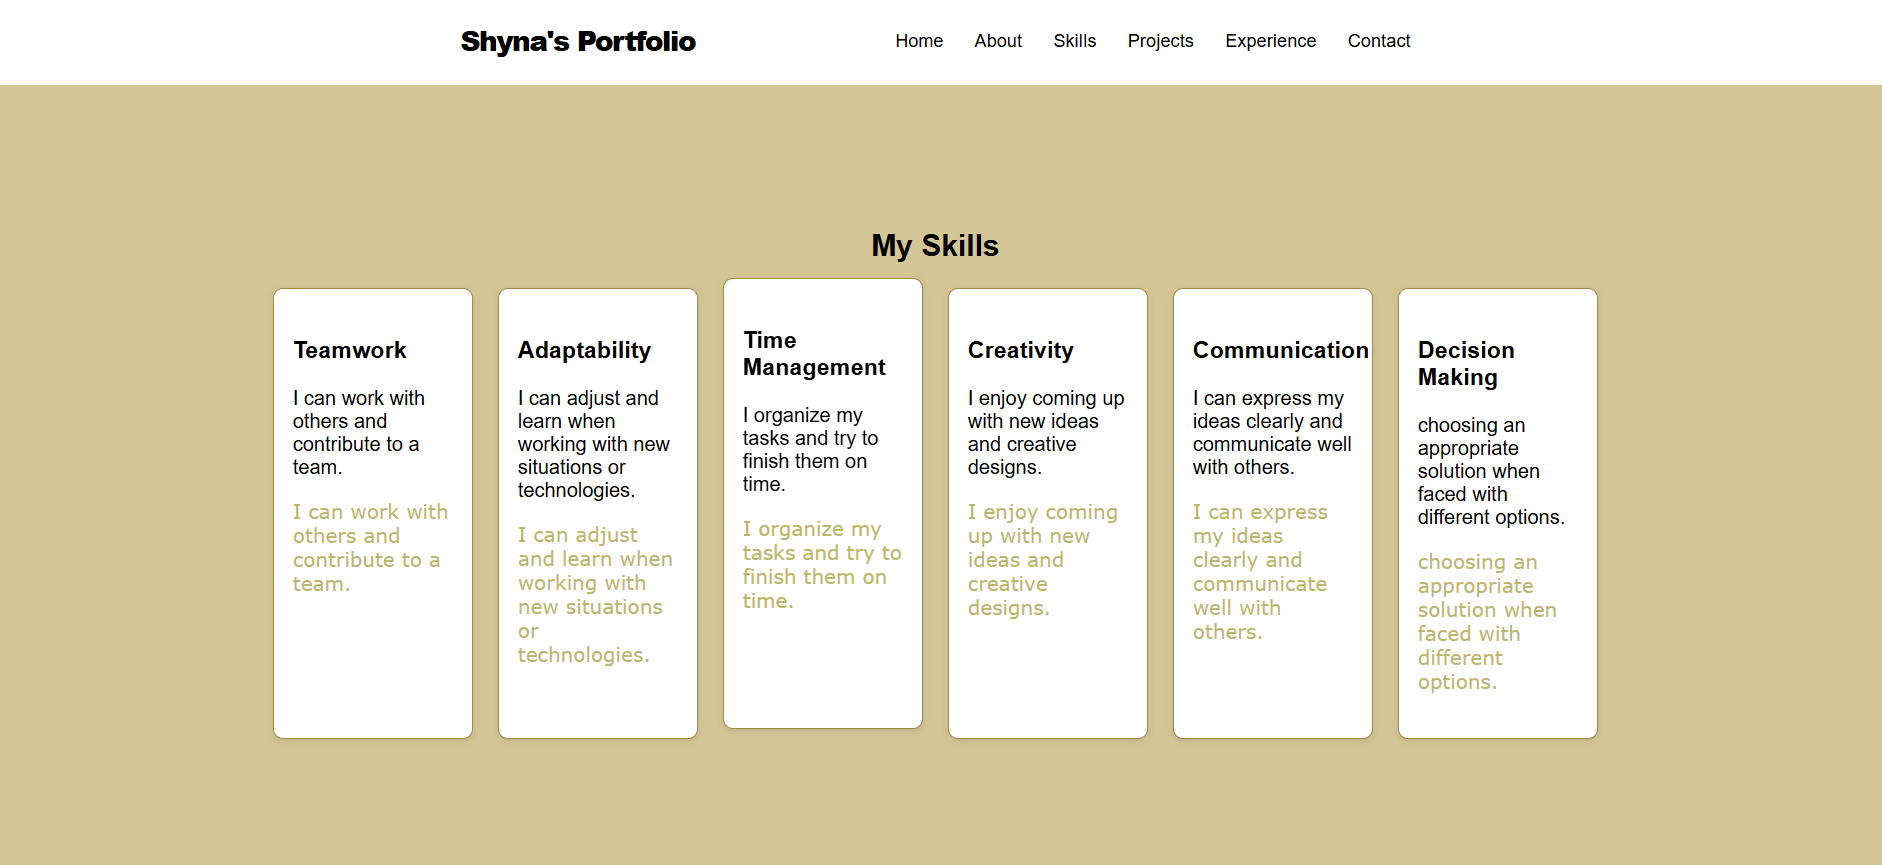
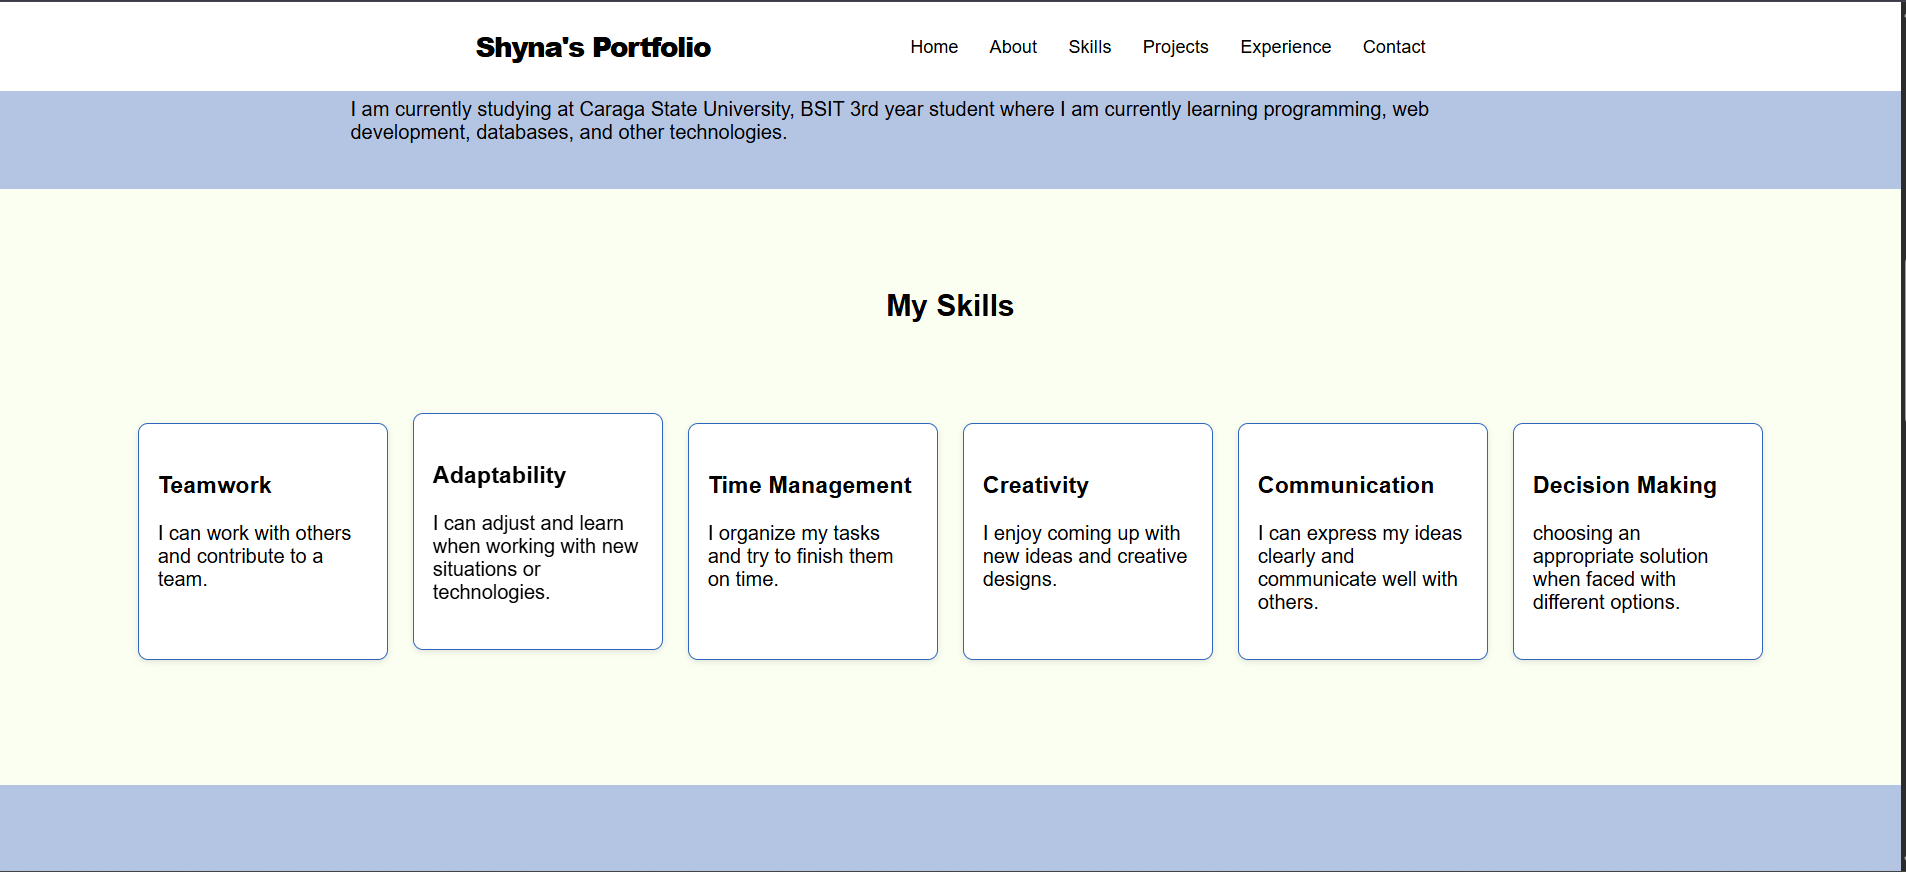
Complete static portfolio

diff --git a/index.html b/index.html
@@ -30,29 +30,31 @@
         <a href="#aboutme" class="button">Learn More About Me</a>
       </div>
       <!-- Act 2-->
-      <section id="aboutme">
-        <h2>About Me</h2>
-        <p>
-          I am a third year college student taking up BSIT who enjoys web
-          designing.
-        </p>
-        <h3>My Hobbies and Interests</h3>
-        <ul>
-          <li>I love watching movies</li>
-          <li>Playing video games</li>
-          <li>Getting my nails done :></li>
-        </ul>
-        <h3>My Goals</h3>
-        <p>
-          My goal is to improve and become a successful web designer in the
-          future.
-        </p>
-        <h3>My Background</h3>
-        <p>
-          I am currently studying at Caraga State University, BSIT 3rd year
-          student where I am currently learning programming, web development,
-          databases, and other technologies.
-        </p>
+      <section id="aboutmesection">
+        <div id="aboutme">
+            <h2>About Me</h2>
+          <p>
+            I am a third year college student taking up BSIT who enjoys web
+            designing.
+          </p>
+          <h3>My Hobbies and Interests</h3>
+          <ul>
+            <li>I love watching movies</li>
+            <li>Playing video games</li>
+            <li>Getting my nails done :></li>
+          </ul>
+          <h3>My Goals</h3>
+          <p>
+            My goal is to improve and become a successful web designer in the
+            future.
+          </p>
+          <h3>My Background</h3>
+          <p>
+            I am currently studying at Caraga State University, BSIT 3rd year
+            student where I am currently learning programming, web development,
+            databases, and other technologies.
+          </p>
+        </div>
       </section>
         <!-- Act 3-->
       <section id="skills">
@@ -61,9 +63,6 @@
           <div class="skill-card">
             <h3>Teamwork</h3>
             <p>I can work with others and contribute to a team.</p>
-            <p class="card-font">
-              I can work with others and contribute to a team.
-            </p>
           </div>
 
           <div class="skill-card">
@@ -72,26 +71,16 @@
               I can adjust and learn when working with new situations or
               technologies.
             </p>
-            <p class="card-font">
-              I can adjust and learn when working with new situations or
-              technologies.
-            </p>
           </div>
 
           <div class="skill-card">
             <h3>Time Management</h3>
             <p>I organize my tasks and try to finish them on time.</p>
-            <p class="card-font">
-              I organize my tasks and try to finish them on time.
-            </p>
           </div>
 
           <div class="skill-card">
             <h3>Creativity</h3>
             <p>I enjoy coming up with new ideas and creative designs.</p>
-            <p class="card-font">
-              I enjoy coming up with new ideas and creative designs.
-            </p>
           </div>
 
           <div class="skill-card">
@@ -99,18 +88,11 @@
             <p>
               I can express my ideas clearly and communicate well with others.
             </p>
-            <p class="card-font">
-              I can express my ideas clearly and communicate well with others.
-            </p>
           </div>
 
           <div class="skill-card">
             <h3>Decision Making</h3>
             <p>
-              choosing an appropriate solution when faced with different
-              options.
-            </p>
-            <p class="card-font">
               choosing an appropriate solution when faced with different
               options.
             </p>
@@ -260,5 +242,9 @@
       </div>
     </section>
     </main>
+    <footer class="footer">
+  <p>&copy; 2026 Shyna's Portfolio. All rights reserved.</p>
+  <p>Designed and developed by Shyna Thea Macarayan</p>
+</footer>
   </body>
 </html>

diff --git a/css/style.css b/css/style.css
@@ -1,6 +1,6 @@
 body {
   font-family: Arial, sans-serif;
-  background-color: rgb(212 197 150);
+  background-color: #FBFFF1;
 
   /* Centers the website horizontally */
  
@@ -12,6 +12,11 @@ body {
   margin: 0 auto;
   text-align: center;
   padding-top: 100px;
+}
+.container h3{
+  color: #3c3c3c;
+  letter-spacing: 2px;
+  margin-bottom: 50px;
 }
 .myself {
   width: 120px;
@@ -25,7 +30,7 @@ body {
   margin-top: 20px;
   padding: 10px 18px;
 
-  background-color: #222;
+  background-color: #3C3744;
   color: white;
   border-radius: 5px;
   transition: transform 0.2s ease;
@@ -38,8 +43,12 @@ body {
 html {
   scroll-behavior: smooth;
 }
+#aboutmesection{
+   background-color: #B4C5E4;
+}
 #aboutme {
   width: 95%;
+  max-width: 1000px;
   margin: 150px auto 0;
   padding: 20px;
   box-sizing: border-box;
@@ -63,14 +72,15 @@ main {
   flex-wrap: wrap;
   justify-content: center;
   gap: 20px;
-  margin-top: 20px;
+  margin-top: 80px;
+  margin-bottom: 80px;
 }
 .skill-card {
   background-color: #fff;
-  border: 1px solid #978e47;
+  border: 1px solid #3066BE;
   border-radius: 8px;
   box-sizing: border-box;
-  width: 160px;
+  width: 200px;
   padding: 20px 15px;
   margin: 0;
   box-shadow: 0 2px 5px rgba(0, 0, 0, 0.1);
@@ -78,10 +88,6 @@ main {
 }
 .skill-card:hover {
   transform: translateY(-8px);
-}
-.card-font {
-  font-family: Verdana, Geneva, Tahoma, sans-serif;
-  color: darkkhaki;
 }
 
 /* ===== Activity 4 - Projects ===== */
@@ -98,10 +104,10 @@ main {
 /* Whole Projects section */
 #projects {
   width: 100%;
-  margin-top: 40px;
-  padding: 20px;
+  padding: 100px;
   box-sizing: border-box;
   scroll-margin-top: 100px;
+  background-color: #B4C5E4;
 }
 
 /* Arrange the project cards */
@@ -141,7 +147,7 @@ main {
 /* Technologies text */
 .technologies {
   font-size: 14px;
-  color: darkkhaki;
+  color: #8f9cb5;
 }
 
 /* View Project button */
@@ -149,7 +155,7 @@ main {
   display: inline-block;
   margin-top: 10px;
   padding: 8px 15px;
-  background-color: #222;
+  background-color: #3C3744;
   color: white;
   border-radius: 5px;
   cursor: pointer;
@@ -205,7 +211,7 @@ main {
   display: inline-block;
   margin-top: 5px;
   padding: 6px 12px;
-  background-color: #978e47;
+  background-color: #3C3744;
   color: white;
   border-radius: 5px;
   font-size: 14px;
@@ -214,7 +220,7 @@ main {
 
 /* Close button hover effect */
 .close-button:hover {
-  background-color: #7a7238;
+  background-color: #555;
 }
 
 /* ===== Activity 5 - Education and Experience Section ===== */
@@ -259,11 +265,11 @@ main {
 
 /* Table header */
 #journey_table th {
-    background-color: #978e47;
+    background-color: #B4C5E4;
     color: white;
     padding: 15px;
     text-align: center;
-    border: 1px solid #ddd5b5;
+    border: 1px solid #abbbd7;
 }
 
 /* Table cells */
@@ -271,12 +277,12 @@ main {
     padding: 15px;
     text-align: left;
     color: #444;
-    border: 1px solid #ddd5b5;
+    border: 1px solid #abbbd7;
 }
 
 /* Hover effect */
 #journey_table tbody tr:hover {
-    background-color: #efeddf;
+    background-color: #e9efdb;
 }
 
 
@@ -329,6 +335,7 @@ main {
   padding: 75px 20px 45px;
   font-family: Arial, Helvetica, sans-serif;
   color: #000000;
+  background-color: #B4C5E4;
 }
 
 .content {
@@ -398,7 +405,7 @@ main {
 .contact_button {
   align-self: flex-start;
   padding: 15px 20px;
-  background-color: #807644;
+  background-color: #3C3744;
   color: white;
   border: none;
   border-radius: 7px;
@@ -409,8 +416,17 @@ main {
 }
 
 .contact_button:hover {
-  background-color: #625a32;
+  background-color: #555;
 }
+
+.footer {
+  color: #3C3744;
+  text-align: center;
+  font-size: 14px;
+  margin: 10px 0;
+  line-height: 1.6;
+}
+
 
 /* ===== Activity 8 - Responsive Design ===== */
 
@@ -556,7 +572,7 @@ main {
   
   .skill-card,
   .project-card {
-    width: 100%;
+    width: 200px;
   }
 
   .project-card:has(.project-radio:checked) {
